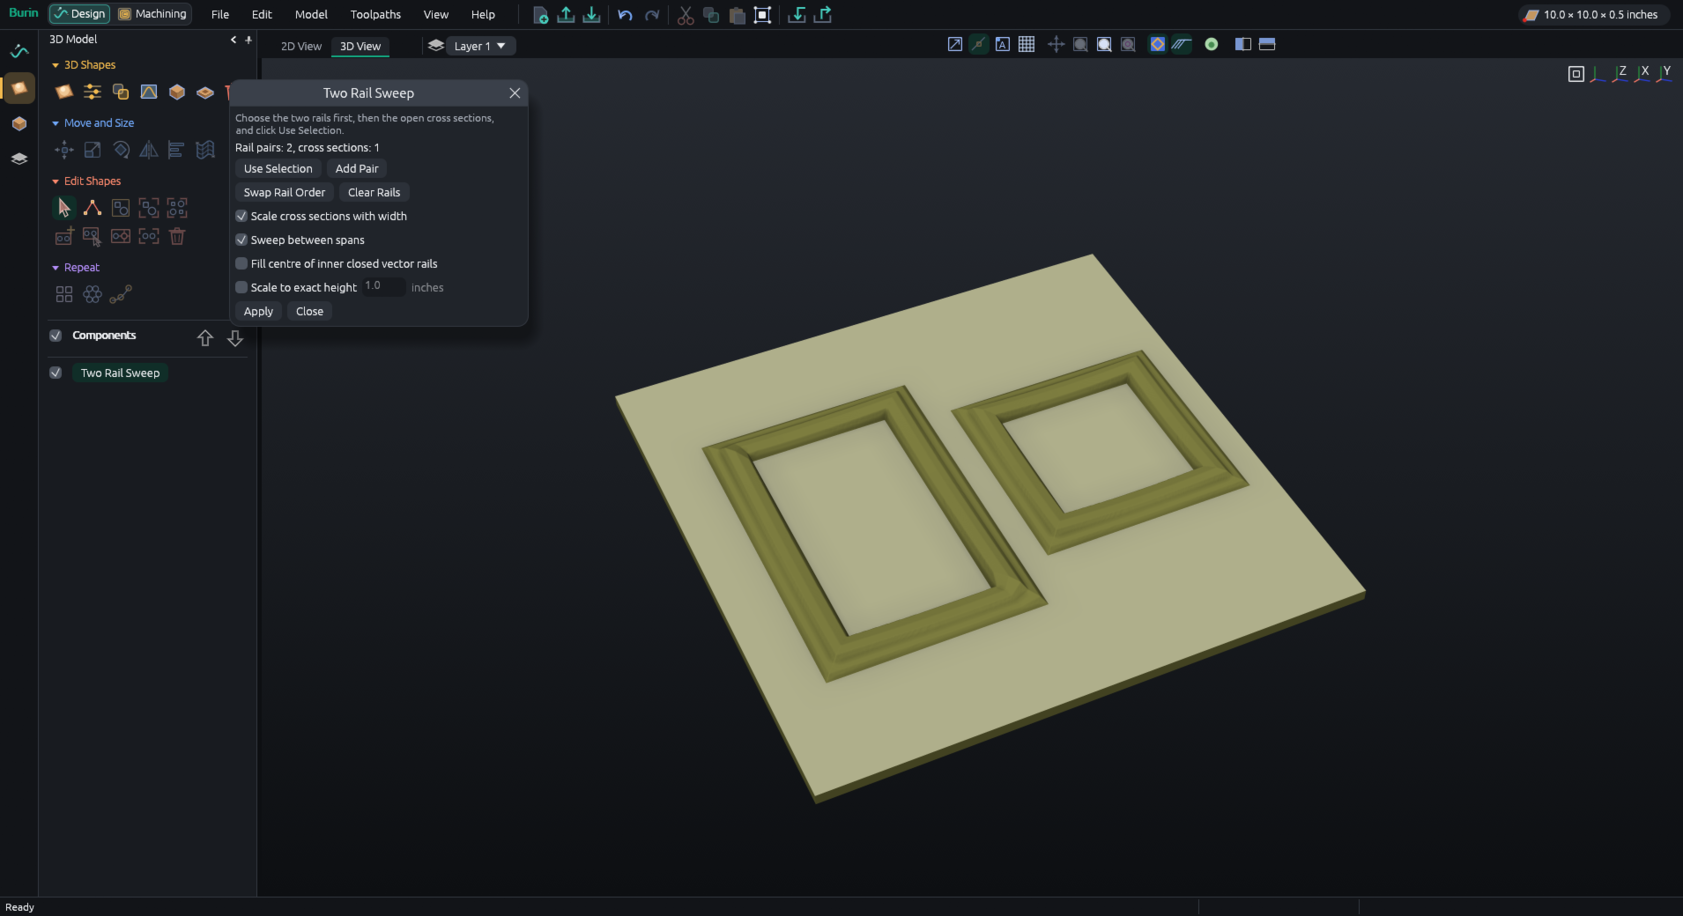
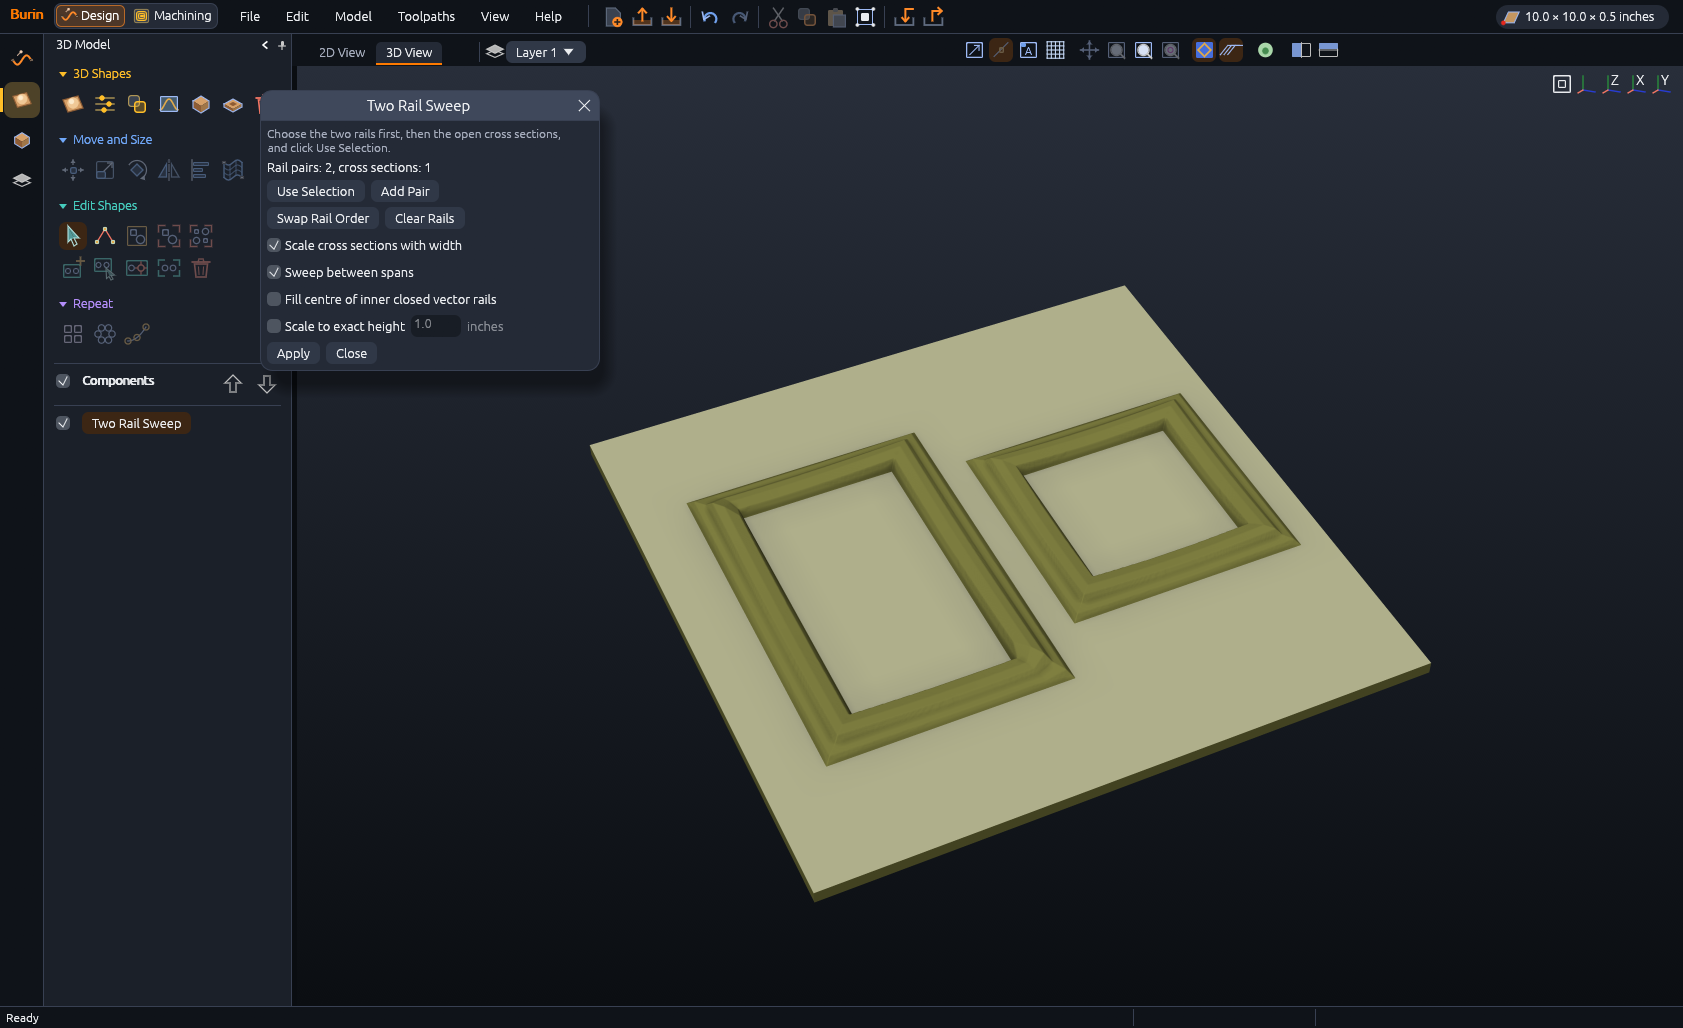
Burin 0.10.0: README and site pictures in the new colours
A sample3d screenshot state carves the sample project in the 3D preview for the main picture.

diff --git a/src/main.rs b/src/main.rs
@@ -227,9 +227,15 @@ fn open_state(app: &mut App, state: &str) {
     app.background_recalc = false;
     app.surface_in_background = false;
     // A real job carved in the preview, for looking at it closely: BURIN_CAM is zoom,yaw,tilt,pan x,pan y.
-    if let Some(path) = state.strip_prefix("file:") {
-        if let Err(why) = app.open_path(path.into()) {
-            eprintln!("{why}");
+    // `sample3d`: the same with the sample project, for the website's picture of the 3D preview.
+    if state == "sample3d" || state.starts_with("file:") {
+        if let Some(path) = state.strip_prefix("file:") {
+            if let Err(why) = app.open_path(path.into()) {
+                eprintln!("{why}");
+            }
+        } else {
+            app.load_sample();
+            app.set_persona(app::Persona::Machining);
         }
         app.right_open = true;
         app.right = RightMode::Preview;
